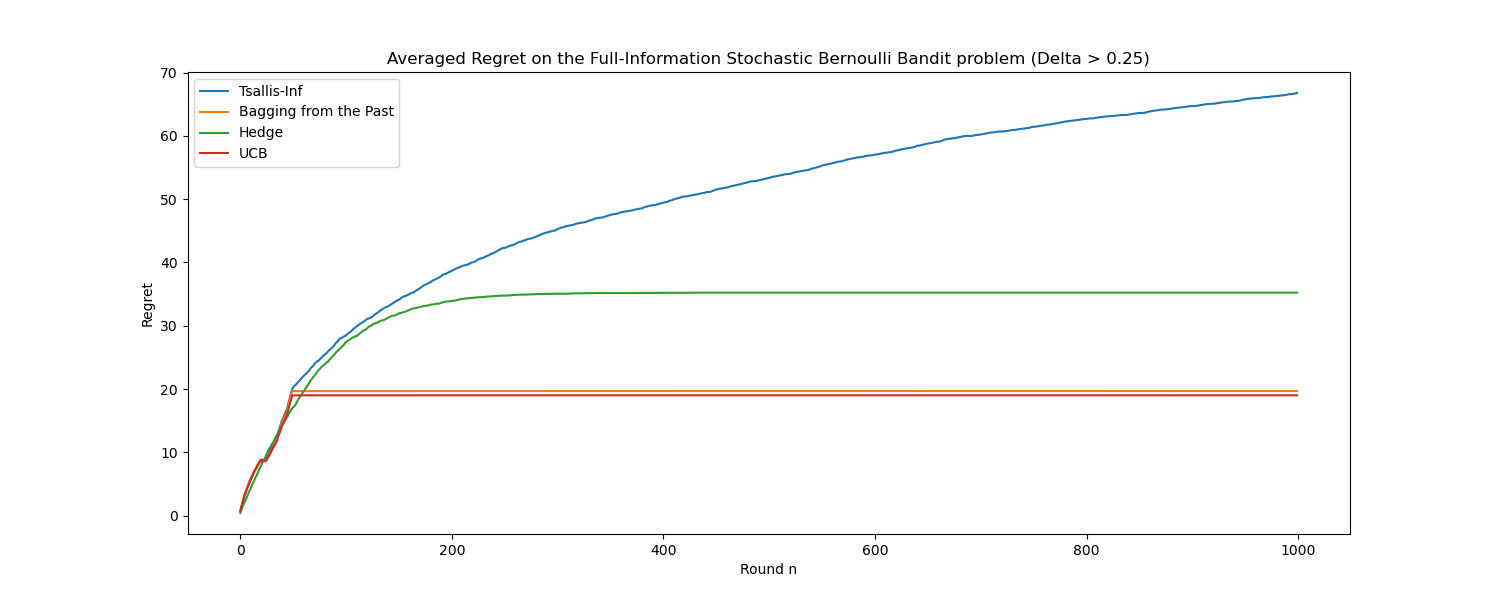
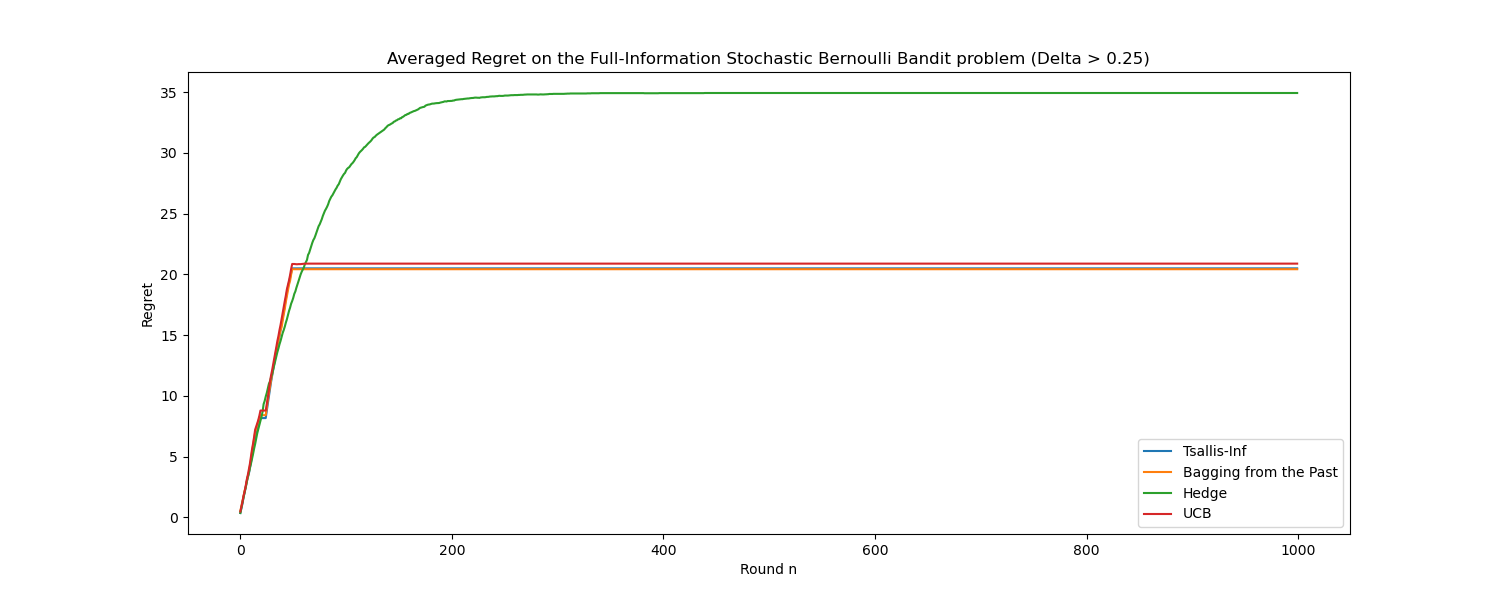
Trying to fix Tsallis-Inf Implementation

diff --git a/full_info_and_partial_info_simulations.py b/full_info_and_partial_info_simulations.py
@@ -2,6 +2,7 @@ import numpy as np
 import matplotlib.pyplot as plt
 from numpy import random
 from itertools import chain
+from scipy.optimize import Bounds, LinearConstraint, root_scalar
 import math
 
 random.seed(895)
@@ -117,7 +118,7 @@ def bagging_from_past_into_future_factory(initial_exploration, partial_info = Fa
         for n in range(num_bootstrap_simulations):
             uniform_sample = list(random.randint(low = 0, high = t, size = N - t))
             arm_estimates_current_simulation = np.mean(importance_weighted_history[:, list(range(t)) + uniform_sample], axis = 1)
-            arm_chosen_this_simulation = np.argmax(-1 * arm_estimates_current_simulation)
+            arm_chosen_this_simulation = np.argmin(arm_estimates_current_simulation)
             num_counts[arm_chosen_this_simulation] = num_counts[arm_chosen_this_simulation] + 1
             if (num_bootstrap_simulations == n + 1):
                 A_t = arm_chosen_this_simulation
@@ -220,7 +221,7 @@ def exp3_plus_plus(importance_weighted_history, unweighted_history, t, N, k):
         LCB_t[a] = max(0, (cumulative_losses[a] / N_t_minus_one[a]) - margin_confidence_interval)
 
     for a in range(k):
-        delta_t[a] = max(0, LCB_t[a] - min(UCB_t))
+        delta_t[a] = max(0.00001, LCB_t[a] - min(UCB_t))
         eta_t[a] = (beta * math.log(t)) / (t * (delta_t[a])**2)
         epsilon_t[a] = min(1 / (2*k), (1 / 2) * (math.sqrt(math.log(k) / (t * k))), eta_t[a])
 
@@ -260,27 +261,49 @@ def tsallis_inf_factory(partial_info = False):
 
     return tsallis_inf
 
+def objective_func(L_t, neta_t, w_t):
+    first_term = np.dot(-1 * L_t, w_t)
+    second_term = (4 / neta_t) * sum(np.sqrt(w_t))
+    return first_term + second_term
+
+def find_max_extreme_point(L_t, neta_t):
+    k = len(L_t)
+    vals = np.zeros(shape = k)
+
+    for i in range(k):
+        e_i = np.zeros(shape = k)
+        e_i[i] = 1
+        vals[i] = objective_func(L_t, neta_t, e_i)
+
+    e_i = np.zeros(shape = k)
+    e_i[np.argmax(vals)] = 1
+
+    return e_i
+
+glob_starting_point = 0
+
 # Implementing Newton-Raphson helper for solving the
 # OMD optimization step as specified in 
 # Zimmert and Seldin (2022)
 def compute_p_t(cumulative_losses, neta_t):
-    curr_x = 1/2
+    global glob_starting_point
+    
     temp_x = np.inf 
     w_t = np.zeros(shape = len(cumulative_losses))
 
-    while (abs(curr_x - temp_x) > 0.0005):
+    while (abs(glob_starting_point - temp_x) > 0.0005):
         if (temp_x < np.inf):
-            curr_x = temp_x
+            glob_starting_point = temp_x
         
         for i in range(len(cumulative_losses)):
-            w_t[i] = 4 * (1 / (neta_t * (cumulative_losses[i] - curr_x))**2)
+            w_t[i] = 4 * (1 / (neta_t * (cumulative_losses[i] - glob_starting_point))**2)
         
         denom = (neta_t * sum(w_t ** (3/2)))
 
-        if (denom < 0.1):
-            denom = 0.1
-
-        temp_x = curr_x - ((sum(w_t) - 1) / denom)
+        if (denom < 0.0001):
+            return find_max_extreme_point(cumulative_losses, neta_t)
+        
+        temp_x = glob_starting_point - ((sum(w_t) - 1) / denom)
 
     return w_t
 
@@ -449,30 +472,24 @@ T = 1000
 K = 10
 
 arms_mean = np.random.uniform(low = 0.1, high = 0.5, size = K)
-arms_mean[4] = 0.54
-arms_mean[7] = 0.86
+arms_mean[4] = 0.75
 
 plt.rcParams["figure.figsize"] = (15,6)
 
-plt.plot(range(T), simulate_partial_information_problem(K = K, T = T, generate_rewards = stochastically_constrained_adversarial, 
-                                                        get_arm_and_weight_to_pull = bagging_from_past_into_future_factory(5, partial_info=True)), label="Bagging from the Past")
-plt.plot(range(T), simulate_partial_information_problem(K = K, T = T, generate_rewards = stochastically_constrained_adversarial, 
-                                                        get_arm_and_weight_to_pull = tsallis_inf_factory(partial_info=True)), label="Tsallis-Inf")
-plt.plot(range(T), simulate_partial_information_problem(K = K, T = T, generate_rewards = stochastically_constrained_adversarial, 
-                                                        get_arm_and_weight_to_pull = exp3), label="Exp3")
-plt.plot(range(T), simulate_partial_information_problem(K = K, T = T, generate_rewards = stochastically_constrained_adversarial, 
-                                                        get_arm_and_weight_to_pull = exp3_plus_plus), label="Exp3++")
-plt.plot(range(T), simulate_partial_information_problem(K = K, T = T, generate_rewards = stochastically_constrained_adversarial, get_arm_and_weight_to_pull = UCB_factory(partial_info = True)), label="UCB")
-plt.title("Averaged Regret on a Partial-Information Stochastically Constrained Adversarial Problem")
+plt.plot(range(T), simulate_partial_information_problem(K = K, T = T, generate_rewards = bernoulli_bandit, get_arm_and_weight_to_pull = tsallis_inf_factory(partial_info=True)), label="Tsallis-Inf")
+plt.plot(range(T), simulate_partial_information_problem(K = K, T = T, generate_rewards = bernoulli_bandit, get_arm_and_weight_to_pull = bagging_from_past_into_future_factory(5, partial_info=True)), label="Bagging from the Past")
+plt.plot(range(T), simulate_partial_information_problem(K = K, T = T, generate_rewards = bernoulli_bandit, get_arm_and_weight_to_pull = explore_then_commit_factory(5, partial_info=True)), label="ETC")
+plt.plot(range(T), simulate_partial_information_problem(K = K, T = T, generate_rewards = bernoulli_bandit, get_arm_and_weight_to_pull = UCB_factory(partial_info=True)), label="UCB")
+plt.plot(range(T), simulate_partial_information_problem(K = K, T = T, generate_rewards = bernoulli_bandit, get_arm_and_weight_to_pull = exp3), label="Exp3")
+plt.plot(range(T), simulate_partial_information_problem(K = K, T = T, generate_rewards = bernoulli_bandit, get_arm_and_weight_to_pull = exp3_plus_plus), label="Exp3++")
+plt.title("Averaged Regret on the Partial-Information Stochastic Bernoulli Bandit problem (Delta > 0.25)")
 
 plt.legend()
 plt.ylabel('Regret')
 plt.xlabel('Round n')
-plt.savefig('PI Stochastically Constrained Adversarial Regime')
+plt.savefig('PI High-Gap Stochastic Problem')
 plt.close()
 
-arms_mean = np.random.uniform(low = 0.1, high = 0.5, size = K)
-arms_mean[4] = 0.75
 
 plt.plot(range(T), simulate_full_information_problem(K = K, T = T, generate_rewards = bernoulli_bandit, get_arm_to_pull = tsallis_inf_factory(partial_info = False)), label="Tsallis-Inf")
 plt.plot(range(T), simulate_full_information_problem(K = K, T = T, generate_rewards = bernoulli_bandit, get_arm_to_pull = bagging_from_past_into_future_factory(5, partial_info=False)), label="Bagging from the Past")
@@ -484,18 +501,30 @@ plt.title("Averaged Regret on the Full-Information Stochastic Bernoulli Bandit p
 plt.ylabel('Regret')
 plt.xlabel('Round n')
 plt.savefig('FI High-Gap Stochastic Problem')
-plt.close() 
+plt.close()
 
-plt.plot(range(T), simulate_partial_information_problem(K = K, T = T, generate_rewards = bernoulli_bandit, get_arm_and_weight_to_pull = bagging_from_past_into_future_factory(5, partial_info=True)), label="Bagging from the Past")
-plt.plot(range(T), simulate_partial_information_problem(K = K, T = T, generate_rewards = bernoulli_bandit, get_arm_and_weight_to_pull = explore_then_commit_factory(5, partial_info=True)), label="ETC")
-plt.plot(range(T), simulate_partial_information_problem(K = K, T = T, generate_rewards = bernoulli_bandit, get_arm_and_weight_to_pull = UCB_factory(partial_info=True)), label="UCB")
-plt.plot(range(T), simulate_partial_information_problem(K = K, T = T, generate_rewards = bernoulli_bandit, get_arm_and_weight_to_pull = tsallis_inf_factory(partial_info=True)), label="Tsallis-Inf")
-plt.plot(range(T), simulate_partial_information_problem(K = K, T = T, generate_rewards = bernoulli_bandit, get_arm_and_weight_to_pull = exp3), label="Exp3")
-plt.plot(range(T), simulate_partial_information_problem(K = K, T = T, generate_rewards = bernoulli_bandit, get_arm_and_weight_to_pull = exp3_plus_plus), label="Exp3++")
-plt.title("Averaged Regret on the Partial-Information Stochastic Bernoulli Bandit problem (Delta > 0.25)")
+arms_mean = np.random.uniform(low = 0.1, high = 0.5, size = K)
+arms_mean[4] = 0.54
+arms_mean[7] = 0.86
 
+plt.plot(range(T), simulate_partial_information_problem(K = K, T = T, generate_rewards = stochastically_constrained_adversarial, 
+                                                        get_arm_and_weight_to_pull = bagging_from_past_into_future_factory(5, partial_info=True)), 
+                                                        label="Bagging from the Past")
+plt.plot(range(T), simulate_partial_information_problem(K = K, T = T, generate_rewards = stochastically_constrained_adversarial, 
+                                                        get_arm_and_weight_to_pull = tsallis_inf_factory(partial_info=True)), 
+                                                        label="Tsallis-Inf")
+plt.plot(range(T), simulate_partial_information_problem(K = K, T = T, generate_rewards = stochastically_constrained_adversarial, 
+                                                        get_arm_and_weight_to_pull = exp3), 
+                                                        label="Exp3")
+plt.plot(range(T), simulate_partial_information_problem(K = K, T = T, generate_rewards = stochastically_constrained_adversarial, 
+                                                        get_arm_and_weight_to_pull = exp3_plus_plus), 
+                                                        label="Exp3++")
+plt.plot(range(T), simulate_partial_information_problem(K = K, T = T, generate_rewards = stochastically_constrained_adversarial, 
+                                                        get_arm_and_weight_to_pull = UCB_factory(partial_info = True)), 
+                                                        label="UCB")
+plt.title("Averaged Regret on a Partial-Information Stochastically Constrained Adversarial Problem")
 plt.legend()
 plt.ylabel('Regret')
 plt.xlabel('Round n')
-plt.savefig('PI High-Gap Stochastic Problem')
-plt.close() 
+plt.savefig('PI Stochastically Constrained Adversarial Regime')
+plt.close()
